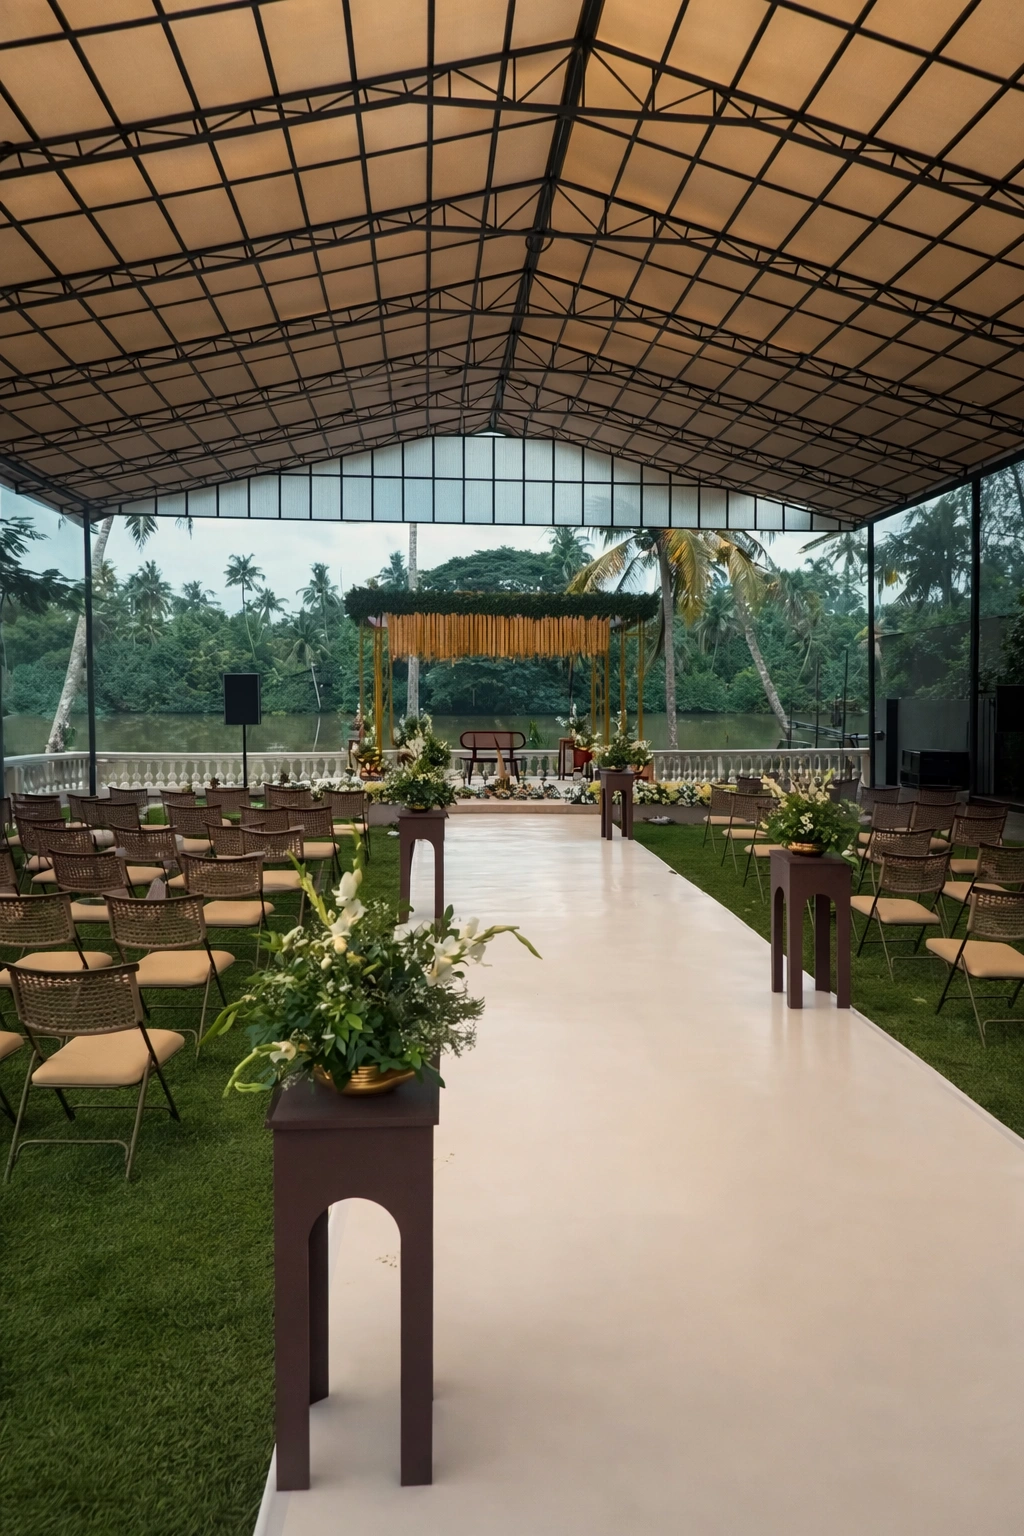
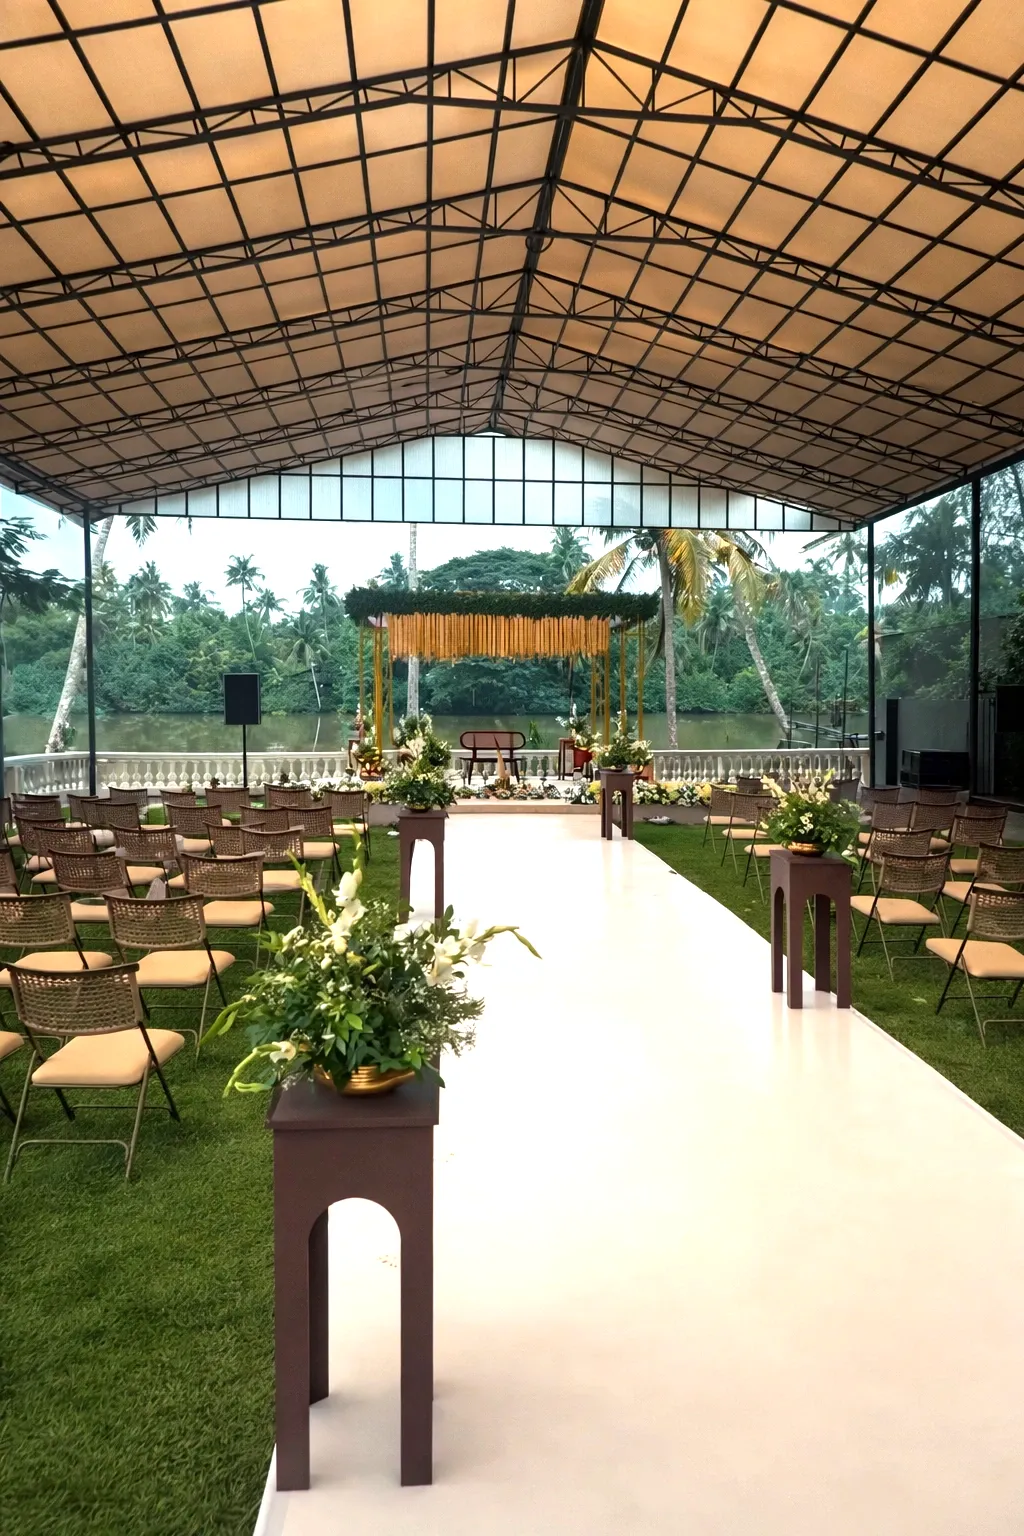
images changed to webp

diff --git a/src/app/components/HeroSection.tsx b/src/app/components/HeroSection.tsx
@@ -1,7 +1,7 @@
 import { motion } from "motion/react";
 import { ChevronDown } from "lucide-react";
 import { ImageWithFallback } from "./figma/ImageWithFallback";
-import heroImg from '/images/BackwaterWeddingDestination.png'
+import heroImg from "/images/BackwaterWeddingDestination.webp";
 
 export function HeroSection() {
   const scrollToAbout = () => {
@@ -23,7 +23,7 @@ export function HeroSection() {
         <div
           className="w-full h-full bg-cover bg-center"
           style={{
-            backgroundImage:`url(${heroImg})`
+            backgroundImage: `url(${heroImg})`,
           }}
         >
           {/* Dark Overlay */}
@@ -60,7 +60,9 @@ export function HeroSection() {
           {/* SEO H1 */}
           <h1 className="text-3xl sm:text-4xl md:text-6xl lg:text-7xl text-white mb-4 px-4 leading-tight">
             {/* Destination Wedding Venue in Kerala –{" "} */}
-            <span className="text-[var(--gold-light)]">Kanjira's Luxeves Pavilion</span>
+            <span className="text-[var(--gold-light)]">
+              Kanjira's Luxeves Pavilion
+            </span>
           </h1>
 
           <motion.p
@@ -79,7 +81,10 @@ export function HeroSection() {
             animate={{ opacity: 1 }}
             transition={{ delay: 1.5, duration: 1 }}
           >
-            Experience the magic of Kerala's serene backwaters as the backdrop to your once-in-a-lifetime celebration. A premier outdoor wedding lawn and destination wedding location in Kerala — offering unmatched elegance amidst nature.
+            Experience the magic of Kerala's serene backwaters as the backdrop
+            to your once-in-a-lifetime celebration. A premier outdoor wedding
+            lawn and destination wedding location in Kerala — offering unmatched
+            elegance amidst nature.
           </motion.p>
 
           {/* SEO keyword tags */}
@@ -89,7 +94,11 @@ export function HeroSection() {
             animate={{ opacity: 1 }}
             transition={{ delay: 1.6, duration: 0.8 }}
           >
-            {["Backwater Wedding Venue", "Outdoor Wedding Lawn", "Destination Wedding Kerala"].map((tag) => (
+            {[
+              "Backwater Wedding Venue",
+              "Outdoor Wedding Lawn",
+              "Destination Wedding Kerala",
+            ].map((tag) => (
               <span
                 key={tag}
                 className="text-xs px-4 py-1.5 border border-[var(--gold)]/60 text-[var(--gold-light)] rounded-full backdrop-blur-sm"

diff --git a/src/app/components/DestinationSection.tsx b/src/app/components/DestinationSection.tsx
@@ -116,14 +116,14 @@ export function DestinationSection() {
                 <div className="space-y-4">
                   <div className="h-48 rounded-lg overflow-hidden shadow-xl">
                     <ImageWithFallback
-                      src="/images/BackwaterWeddingDestination.png"
+                      src="/images/BackwaterWeddingDestination.webp"
                       alt="Backwater sunset"
                       className="w-full h-full object-cover"
                     />
                   </div>
                   <div className="h-64 rounded-lg overflow-hidden shadow-xl">
                     <ImageWithFallback
-                      src="/images/kanjiras-luxeves-pavilion-garden.jpeg"
+                      src="/images/kanjiras-luxeves-pavilion-garden.webp"
                       alt="Kerala backwaters"
                       className="w-full h-full object-cover"
                     />

diff --git a/src/app/components/VenuesSection.tsx b/src/app/components/VenuesSection.tsx
@@ -130,7 +130,6 @@ export function VenuesSection() {
                     alt={`${venue.name} – ${venue.tagline}`}
                     className="w-full h-full object-cover transform group-hover:scale-105 transition-transform duration-700"
                   />
-                  <div className="absolute inset-0 bg-gradient-to-t from-black/60 to-transparent" />
                   {/* Capacity Badge */}
                   <div className="absolute top-4 right-4 bg-[var(--gold)] text-[var(--green-dark)] px-4 py-2 rounded-full flex items-center space-x-2 shadow-lg">
                     <Users size={18} />

diff --git a/src/app/components/GallerySection.tsx b/src/app/components/GallerySection.tsx
@@ -18,7 +18,7 @@ const galleryImages = [
     alt: "Backwater wedding pavilion at Kanjira’s Luxeves Pavilion Kerala",
   },
   {
-    src: "/images/kanjiras-pavilion-destination-wedding-venue-thrissur.jpeg",
+    src: "/images/kanjiras-pavilion-destination-wedding-venue-thrissur.webp",
     alt: "Wedding lawn at Kanjira’s Luxeves Pavilion Thrissur Kerala",
   },
   {
